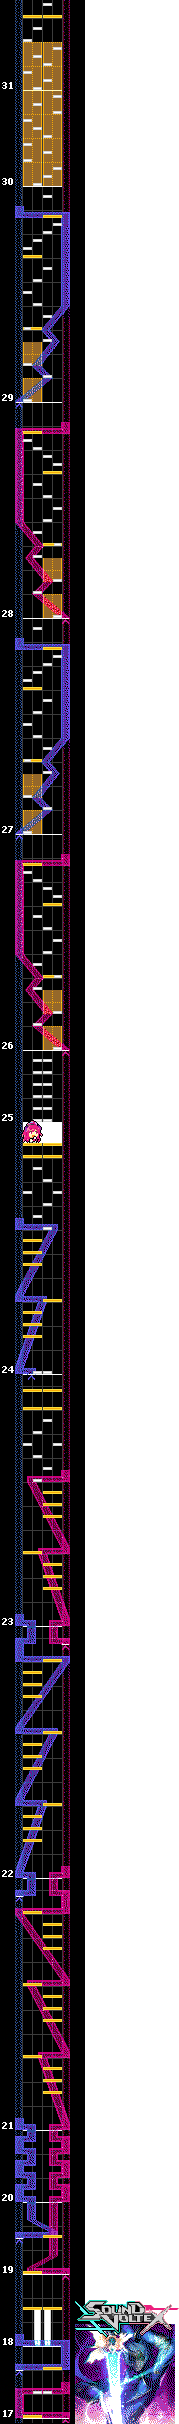
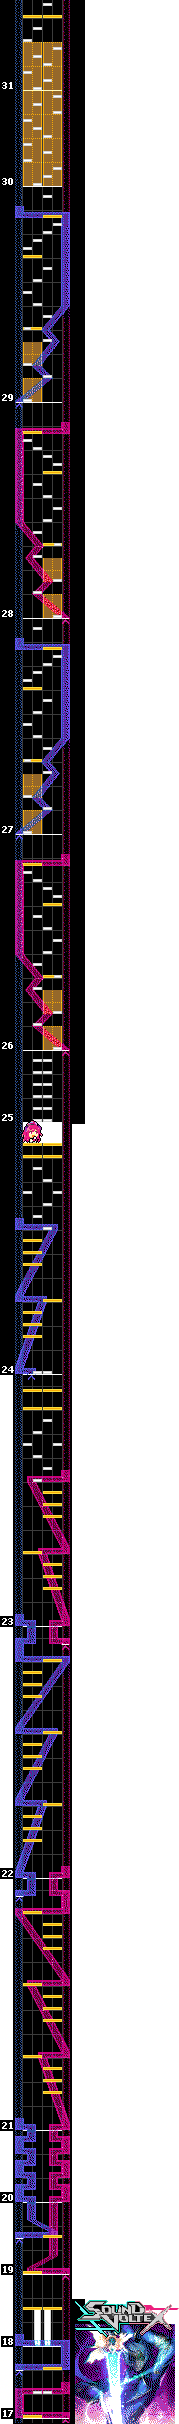
Removed parts of completed margin.

Changed region(s): [[0.3911, 0.4641, 0.4749, 0.9592], [0.0, 0.5569, 0.0838, 1.0]]

diff --git a/README.md b/README.md
@@ -25,6 +25,9 @@ This is an ongoing wplace project by [Sound Voltex](https://wplace.live/join?id=
 
 List is written in reverse order; the most recent change is at the top.
 
+- 2025-05-18: Removed parts of completed margin that is no longer considered "essential".
+  - The goal is to allow other artworks to partially overlap with the margin, without causing BlueMarble overlay to make it annoying.
+  - I will continue removing parts of margin that is already completed.
 - 2025-08-17: Added boundaries around the hole.
 - 2025-08-17: Modified a few pixels around lasers to be more "consistent".
 - 2025-08-16: Shifted Rasis 4 pixels to right, and added some more minor modifications.
